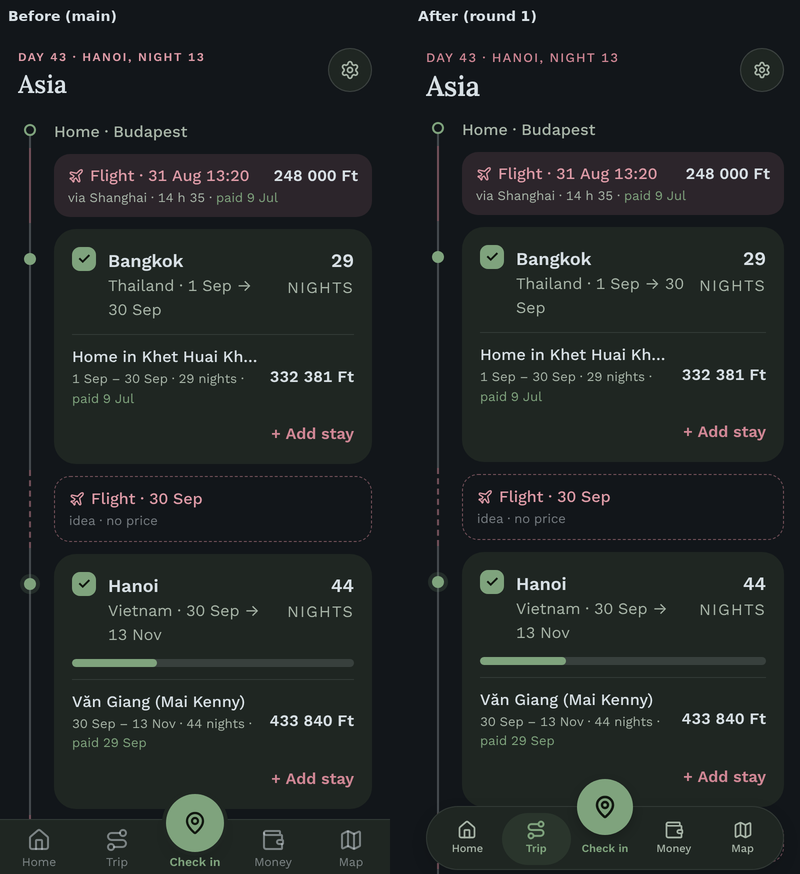
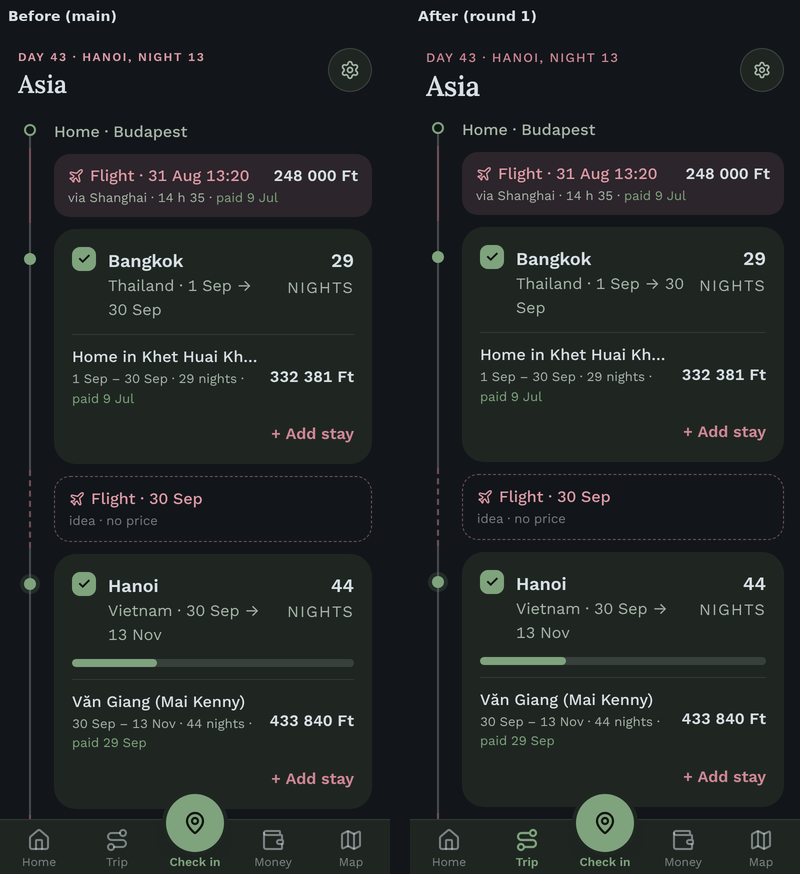
Round 1: the web keeps its own tab bar; the phone's rules stay
Petra, 12 Oct: without the glass the floating capsule merged with the
white cards scrolling under it, so the full-width band with its line on
top comes back, as on main. What stays from the phone is behaviour: a tab
keeps the pages it opens lit (Account, Reminders, People, a journey and a
post for Home; Trip settings for Trip; Explore for Map), and there is no
bar without a journey. The bottom room goes back to the old bar's 76 px,
the toast to 88. Recorded in the plan and in NOTES; the after pictures are
retaken.

Claude-Session: https://claude.ai/code/session_01Y4cNLRyg5RPwirJJGrzXfV

diff --git a/product/src/components/AppNav.tsx b/product/src/components/AppNav.tsx
@@ -5,36 +5,33 @@ import { House, Route, Wallet, Map as MapIcon, MapPin, type LucideIcon } from 'l
 import { useCheckIn } from '@/components/checkin/CheckInProvider'
 import { useTripScope } from '@/lib/trips/TripScope'
 
-// Bottom tab bar, drawn as the phone draws it (ios/Livhold/Components/
-// GlassTabBar.swift; Patrik chose it on 2026-09-27 on TestFlight over this
-// file's old solid bar): a floating capsule 16px from the sides, at most
-// 520 wide and 64 tall, four icon+label tabs with one green highlight that
-// slides to the tab you pick, and a raised 56px Check in circle carrying the
-// pin in the middle. The handoff's "1g" structure stands: no More tab; Trip
-// settings behind the gear on Trip, Account behind the Home avatar, Explore
-// folded into Map as its search.
+// Bottom tab bar — the handoff's final nav structure "1g" (design/handoff-v1,
+// Menu Options.dc.html): four icon+label tabs, no More tab. Trip settings sit
+// behind the gear on the Trip page, Account behind the Home avatar, and
+// Explore was folded into Map as its search.
 //
-// A tab also owns the pages it opens, as a tab's stack does on the phone:
-// Account, Reminders, People, a followed journey and a post belong to Home;
-// Trip settings to Trip; All entries to Money; Explore to Map. The highlight
-// stays on the tab you came from.
+// The web keeps this bar, a full-width band with a line on top (Petra,
+// 2026-10-12). The phone's floating capsule (ios/Livhold/Components/
+// GlassTabBar.swift) works because it is Liquid Glass, Apple's own material,
+// which stays on the phone; drawn solid on the web it merged with the white
+// cards scrolling under it. What the web takes from the phone's bar is its
+// behaviour: a tab owns the pages it opens, as a tab's stack does there
+// (Account, Reminders, People, a followed journey and a post keep Home lit;
+// Trip settings keeps Trip; All entries keeps Money; Explore keeps Map), and
+// without a journey of your own there is no bar at all (the phone since 3 Oct:
+// Home only). The follower's Home and the create-a-trip screen have no tab to
+// go to; Account carries a "‹ Home" link for the way back.
 //
-// Without a journey of your own there is no bar (the phone since 3 Oct: Home
-// only). The follower's Home and the create-a-trip screen have no tab to go to.
-//
+// The raised center check-in button appears ONLY during the live trip.
 // showCheckIn comes from the server layout: phase gate (startDate <= today <=
-// endDate, open-ended stays live) AND editor role — viewers never check in.
-// With it off the four tabs spread evenly. Whether the circle belongs on the
+// endDate, open-ended stays live) AND editor role — the same rule that gated
+// the old Live tab; viewers never check in. Whether the circle belongs on the
 // bar whenever a journey exists, as on the phone, is question 1 in
 // docs/WEB-IOS-REDESIGN.md.
 //
-// z-40 + its own stacking context: the map page paints a FIXED globe overlay
-// below the bar — without one the bar rendered UNDER it (dogfood 2026-07-24:
+// z-40 + solid bg: the map page paints a FIXED globe overlay below the bar —
+// without a stacking context the bar rendered UNDER it (dogfood 2026-07-24:
 // "trapped on the map page").
-//
-// The capsule is a solid surface on purpose. The phone's bar is Liquid Glass,
-// Apple's own material, which stays on the phone (Petra, 2026-10-12): the web
-// takes the bar's layout, not its glass.
 
 type Tab = { href: string; label: string; Icon: LucideIcon; owns: string[] }
 
@@ -44,9 +41,6 @@ const TABS: Tab[] = [
   { href: '/money', label: 'Money', Icon: Wallet, owns: [] },
   { href: '/map', label: 'Map', Icon: MapIcon, owns: ['/knowledge'] },
 ]
-
-/** Room every screen keeps free at the bottom for the bar, as the phone's `reservedHeight`. */
-export const NAV_RESERVED_PX = 80
 
 export function AppNav({ showCheckIn, pathname: forced }: { showCheckIn: boolean; /** The dev previews pass the route they stand in for. */ pathname?: string }) {
   const here = usePathname()
@@ -60,66 +54,57 @@ export function AppNav({ showCheckIn, pathname: forced }: { showCheckIn: boolean
 
   const under = (p: string) => pathname === p || pathname.startsWith(p + '/')
   const active = TABS.find((t) => under(t.href) || t.owns.some(under))
-  const slots: (Tab | 'checkin')[] = showCheckIn ? [TABS[0], TABS[1], 'checkin', TABS[2], TABS[3]] : [...TABS]
-  const activeAt = active ? slots.indexOf(active) : -1
+
+  const tab = (t: Tab) => {
+    const on = t === active
+    return (
+      <Link
+        key={t.href}
+        href={t.href}
+        aria-current={on ? 'page' : undefined}
+        className={
+          'flex min-h-[52px] flex-col items-center justify-center gap-0.5 pb-1 pt-2 ' +
+          (on ? 'font-semibold text-ac' : 'text-tx3')
+        }
+      >
+        <t.Icon aria-hidden className="size-6" strokeWidth={on ? 2.2 : 2} />
+        <span className="text-[12px] leading-4">{t.label}</span>
+      </Link>
+    )
+  }
 
   return (
     <nav
       aria-label="Primary"
-      className="pointer-events-none fixed inset-x-0 bottom-0 z-40 pb-[calc(4px+env(safe-area-inset-bottom))] pl-[calc(16px+env(safe-area-inset-left))] pr-[calc(16px+env(safe-area-inset-right))]"
+      className="fixed inset-x-0 bottom-0 z-40 border-t border-ln bg-sf pb-[env(safe-area-inset-bottom)] pl-[env(safe-area-inset-left)] pr-[env(safe-area-inset-right)]"
     >
-      <div className="pointer-events-auto relative mx-auto flex h-16 max-w-[520px] items-center rounded-full border border-ln bg-sf px-1.5 shadow-[0_6px_16px_rgba(0,0,0,.12)]">
-        {/* One highlight that slides to the tab you pick (the phone's matchedGeometryEffect). */}
-        {activeAt >= 0 && (
-          <span
-            aria-hidden
-            className="absolute top-1.5 h-[52px] rounded-full bg-ac/12 transition-[left] duration-[220ms] ease-out motion-reduce:transition-none"
-            style={{
-              left: `calc(6px + ${activeAt} * (100% - 12px) / ${slots.length})`,
-              width: `calc((100% - 12px) / ${slots.length})`,
-            }}
-          />
+      <div className={'relative mx-auto max-w-lg ' + (showCheckIn ? 'grid grid-cols-5' : 'grid grid-cols-4')}>
+        {tab(TABS[0])}
+        {tab(TABS[1])}
+        {showCheckIn && (
+          <div className="relative">
+            {/* The circle carries a VISIBLE label like its four siblings. An
+                unlabelled icon in the one position the thumb reaches first is
+                the easiest thing on the bar to press by accident, and the
+                accessible name now matches the words on screen. */}
+            {/* An ACTION, not a destination. This used to link to /live, a
+                screen that is Home again with its own Check in button on it,
+                so pressing Check in read as nothing having happened. */}
+            <button
+              type="button"
+              onClick={checkIn.open}
+              className="absolute left-1/2 top-0 flex -translate-x-1/2 -translate-y-[26px] flex-col items-center whitespace-nowrap"
+            >
+              <span className="flex size-[58px] items-center justify-center rounded-full bg-ac text-on shadow-lg ring-4 ring-sf">
+                <MapPin aria-hidden className="size-6" strokeWidth={2.2} />
+              </span>
+              <span className="mt-0.5 text-[12px] font-semibold leading-4 text-ac">Check in</span>
+            </button>
+          </div>
         )}
-        {slots.map((s) =>
-          s === 'checkin' ? <CheckIn key="checkin" onClick={checkIn.open} /> : <TabLink key={s.href} tab={s} active={s === active} />,
-        )}
+        {tab(TABS[2])}
+        {tab(TABS[3])}
       </div>
     </nav>
-  )
-}
-
-function TabLink({ tab: { href, label, Icon }, active }: { tab: Tab; active: boolean }) {
-  return (
-    <Link
-      href={href}
-      aria-current={active ? 'page' : undefined}
-      className={
-        'relative z-[1] flex h-[52px] min-w-0 flex-1 flex-col items-center justify-center gap-0.5 rounded-full ' +
-        (active ? 'text-ac' : 'text-tx2')
-      }
-    >
-      <Icon aria-hidden className="size-5" strokeWidth={active ? 2.4 : 2} />
-      <span className={'text-[11px] leading-[14px] ' + (active ? 'font-semibold' : 'font-medium')}>{label}</span>
-    </Link>
-  )
-}
-
-// An ACTION, not a destination: it opens the check-in sheet over whatever you
-// are looking at. The circle carries a VISIBLE label like its four siblings — an
-// unlabelled icon in the one position the thumb reaches first is the easiest
-// thing on the bar to press by accident. The circle sits on the icon slot and
-// rises above the capsule from there, so "Check in" shares the tabs' baseline.
-function CheckIn({ onClick }: { onClick: () => void }) {
-  return (
-    <div className="relative z-[1] flex h-[52px] min-w-0 flex-1 justify-center">
-      <button type="button" onClick={onClick} className="flex h-[52px] flex-col items-center justify-center gap-0.5 whitespace-nowrap">
-        <span className="relative h-5 w-14">
-          <span className="absolute bottom-[5px] left-1/2 flex size-14 -translate-x-1/2 items-center justify-center rounded-full bg-ac text-on shadow-[0_4px_10px_rgba(0,0,0,.2)]">
-            <MapPin aria-hidden className="size-6" strokeWidth={2.4} />
-          </span>
-        </span>
-        <span className="text-[11px] font-semibold leading-[14px] text-ac">Check in</span>
-      </button>
-    </div>
   )
 }

diff --git a/product/src/app/(app)/layout.tsx b/product/src/app/(app)/layout.tsx
@@ -71,7 +71,7 @@ export default async function AppLayout({ children }: { children: React.ReactNod
               the other three insets: with viewport-fit=cover (layout.tsx) the
               window reaches the status bar and, in landscape, the notch. All
               four are 0 on a phone without a cutout. */}
-          <div className="min-h-screen pl-[env(safe-area-inset-left)] pr-[env(safe-area-inset-right)] pt-[env(safe-area-inset-top)] pb-[calc(80px+env(safe-area-inset-bottom))]">
+          <div className="min-h-screen pl-[env(safe-area-inset-left)] pr-[env(safe-area-inset-right)] pt-[env(safe-area-inset-top)] pb-[calc(76px+env(safe-area-inset-bottom))]">
             {/* Above every screen: an invite is to a trip you cannot navigate to
                 yet, so it has no page of its own to live on. Renders nothing
                 unless you actually have one. */}

diff --git a/product/src/app/(app)/map/MapClient.tsx b/product/src/app/(app)/map/MapClient.tsx
@@ -90,7 +90,7 @@ export default function MapClient() {
   // z-40 with a solid background, so it always paints ABOVE the globe — no
   // more being trapped on this page.
   return (
-    <div className="fixed inset-x-0 top-0 bottom-[calc(80px+env(safe-area-inset-bottom))] bg-[#0b0f14]">
+    <div className="fixed inset-x-0 top-0 bottom-[calc(76px+env(safe-area-inset-bottom))] bg-[#0b0f14]">
       {/* Explore retired as a destination — its search lives here (top-right).
           Links to the old /knowledge screen until Phase 7 embeds it. */}
       <Link

diff --git a/product/src/components/Toast.tsx b/product/src/components/Toast.tsx
@@ -39,7 +39,7 @@ export function ToastProvider({ children }: { children: React.ReactNode }) {
       {/* The aria-live container stays mounted so message changes announce. */}
       <div
         aria-live="polite"
-        className="pointer-events-none fixed inset-x-0 bottom-[calc(96px+env(safe-area-inset-bottom))] z-[60] flex justify-center px-4"
+        className="pointer-events-none fixed inset-x-0 bottom-[calc(88px+env(safe-area-inset-bottom))] z-[60] flex justify-center px-4"
       >
         {toast && (
           <div

diff --git a/docs/NOTES.md b/docs/NOTES.md
@@ -17,28 +17,28 @@ Trip settings; the timing against the 31 Oct freeze. The source of the look is
 `feat/ios-foundation` (TestFlight build 24), not the `ios/` on `main`.
 
 Round 1, the frame, is one pull request. Nothing changes in what you can do.
-- **The tab bar** takes the phone's GlassTabBar layout: a floating capsule 16 px from the
-  sides, at most 520 wide and 64 tall, a hairline and a soft shadow; labels at 11; one green
-  highlight that slides to the tab you pick; the 56 px Check in circle raised in the middle.
-  `components/AppNav.tsx`.
-- **No glass on the web (Petra, 12 Oct).** The phone's bar is Liquid Glass, Apple's own
-  material, and Apple asks apps not to imitate it; on the web a blurred, see-through bar would
-  be an imitation of the phone's. So the capsule and Money's + are solid surfaces, and the
-  later rounds use solid surfaces where the phone uses its materials (the "Open the globe" pill,
-  the compact bar over the globe).
+- **The web keeps its own tab bar** (`components/AppNav.tsx`, the handoff's "1g" band with a
+  line on top). Two decisions by Petra, 12 Oct, in this order: (1) **no glass on the web.** The
+  phone's bar is Liquid Glass, Apple's own material, and Apple asks apps not to imitate it; a
+  blurred, see-through bar on the web would be an imitation of the phone's. (2) **Without the
+  glass, the phone's floating capsule does not work on the web:** drawn solid, white on the
+  off-white canvas, it merged with the white cards scrolling under it (tried in this branch,
+  pictures compared). The full-width band keeps the page and the bar apart. So the later
+  rounds use solid surfaces where the phone uses a material (the "Open the globe" pill, the
+  compact bar over the globe, Money's +), and the capsule is not tried again.
+- **What the bar takes from the phone is behaviour**, not looks (next two points).
 - **A tab owns the pages it opens**, as a tab's stack does on the phone: Account, Reminders,
   People, a followed journey and a post keep Home lit; Trip settings keeps Trip; Explore keeps
   Map. Before, those pages lit no tab.
 - **No bar without a journey** (`useTripScope().tripId === null`), as on the phone since 3 Oct.
   It appears once the wizard's `router.refresh()` lands.
-- **The Check in rule is unchanged**: live phase and editor (question 1 for Patrik). Without it
-  the four tabs spread evenly.
+- **The Check in rule is unchanged**: live phase and editor (question 1 for Patrik).
 - **Headers** come from `components/ui/PageHeader.tsx`, `IconButton.tsx` and `Avatar.tsx`, the
   start of a web kit mirroring `ios/Livhold/Components/`. Home's date line 16 → 12.5 px; Trip's
   name 25 → 28 and its kicker 13 in plain mauve; Money's name 25 → 30, its line 14 → 13, its +
   a 42 px circle with a hairline and the plus in mauve (was 46, soft mauve).
-- **Spacing**: page side padding 18 → 16 px on every screen (the phone's); 80 px kept free at
-  the bottom (was 76; the layout and the map's globe follow); the toast 96 px up (was 88).
+- **Spacing**: page side padding 18 → 16 px on every screen (the phone's). The bottom room
+  stays 76 px, the old bar's.
 - **Account gets a "‹ Home" link** at the top, like People and a journey: without the bar a
   follower who opened Account from the avatar had no way back but the browser's.
 - **The dev previews show the bar** (`AppNav` takes a `pathname` for the route it stands in
@@ -46,9 +46,9 @@ Round 1, the frame, is one pull request. Nothing changes in what you can do.
   light and dark, are in `docs/web-ios-redesign/round1-*.png` (`main` on the left).
 - Checked: tsc, eslint, the 165 tests, `next build`.
 
-iOS: nothing new. The web copies the layout of `GlassTabBar.swift` (not its glass),
-`HomeScreen.swift`'s header, `TripScreens.swift`'s TripHeader and `MoneyScreen.swift`'s
-header. The rule the phone keeps and the web does not yet: Check in on the bar whenever a
+iOS: nothing new. The web copies the tab rules of `TabRouter.swift` (a tab owns the pages it
+pushes; no bar without a journey), `HomeScreen.swift`'s header, `TripScreens.swift`'s
+TripHeader and `MoneyScreen.swift`'s header. Not `GlassTabBar.swift`: see above. The rule the phone keeps and the web does not yet: Check in on the bar whenever a
 journey exists (`AppShell.swift`, `trips.phase != .empty`).
 
 ## 2026-10-10

diff --git a/docs/WEB-IOS-REDESIGN.md b/docs/WEB-IOS-REDESIGN.md
@@ -114,9 +114,10 @@ it: Patrik's call (question 2 below).
 
 - Haptics (a tap on every landing, selection, success). No web equivalent on iOS Safari;
   skipped.
-- Liquid Glass. It is Apple's own material and stays on the phone (Petra, 12 Oct): the web
-  takes the layout of the bar and uses solid surfaces wherever the phone uses its materials
-  (the bar, Money's +, the "Open the globe" pill, the compact bar over the globe).
+- Liquid Glass. It is Apple's own material and stays on the phone (Petra, 12 Oct). The web
+  uses solid surfaces wherever the phone uses a material (Money's +, the "Open the globe" pill,
+  the compact bar over the globe). The phone's floating tab bar is not copied at all: without
+  the glass it merged with the cards under it, so the web keeps its own full-width bar.
 - Zoom transitions (a card grows into its page). The web's View Transitions API can do a
   cross-fade and, in newer browsers, the zoom. Round 6.
 - Pull to refresh, swipe actions on rows, a long press menu, the system date picker and
@@ -127,11 +128,12 @@ it: Patrik's call (question 2 below).
 Each round is one pull request, merged with Petra or Patrik the usual way (say what
 changes and what could go wrong, "go", merge, watch the build, test on the phone, record).
 
-1. **The frame** (this pull request). The floating tab bar as on the phone, hidden until
-   you have a journey. The three root headers at the phone's sizes (Home's date line 12.5 px,
+1. **The frame** (this pull request). The tab bar keeps its look and takes the phone's rules:
+   a tab stays lit on the pages it opens, and there is no bar until you have a journey. The
+   three root headers at the phone's sizes (Home's date line 12.5 px,
    Trip's name 28 px, Money's name 30 px with the 42 px "+"). The start of the kit:
-   `product/src/components/ui/`. 16 px side padding and the 80 px bottom room on every
-   screen. Nothing changes in what you can do.
+   `product/src/components/ui/`. 16 px side padding on every screen. Nothing changes in what
+   you can do.
 2. **Home.** The stop card with the money line and no buttons; Arrived; the first-stop
    card with the countdown as on the phone; the estimate card; "Coming up" at 2 rows; the
    recap card with the wash inside it and the two link cards; the people you follow as
@@ -168,8 +170,9 @@ changes and what could go wrong, "go", merge, watch the build, test on the phone
 
 ## Record
 
-- 12 Oct, Petra: no glass on the web. Liquid Glass is Apple's material; the web's bar and
-  Money's + are solid surfaces, and so is everything the later rounds draw where the phone
-  uses a material.
+- 12 Oct, Petra: no glass on the web. Liquid Glass is Apple's material; Money's + is a solid
+  surface, and so is everything the later rounds draw where the phone uses a material.
+- 12 Oct, Petra: the web keeps its own tab bar. The phone's floating capsule was tried solid
+  and merged with the cards under it; the full-width band keeps the page and the bar apart.
 - 12 Oct: this file and round 1, by Petra with Claude. Before-and-after pictures of round 1
   at phone width are in `docs/web-ios-redesign/` (`main` on the left, light and dark).
